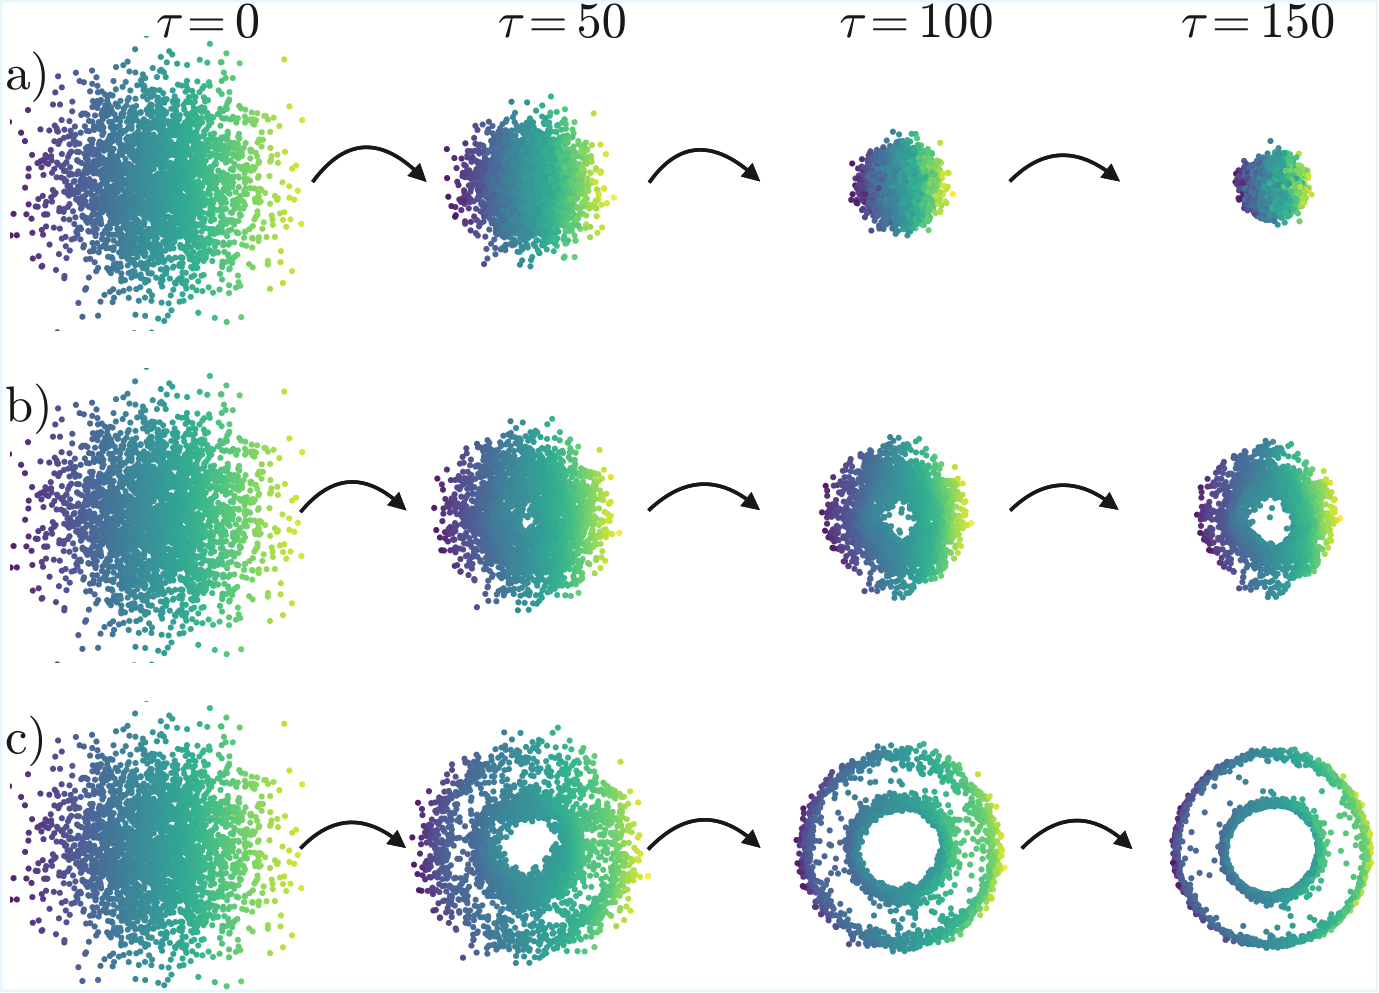
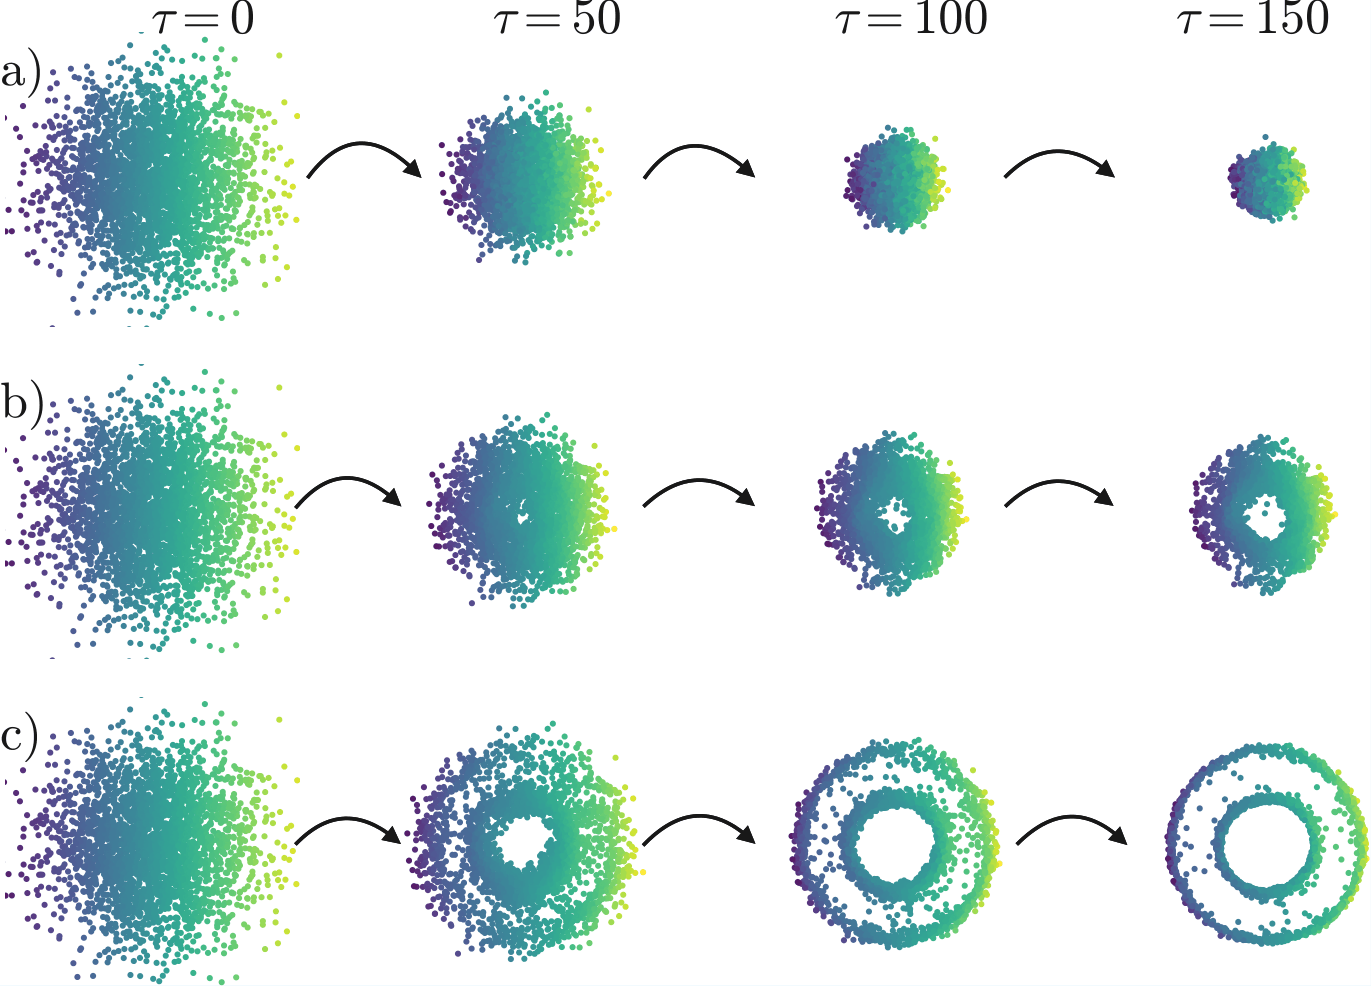
PFD webpage

diff --git a/projects/pfd/index.html b/projects/pfd/index.html
@@ -332,11 +332,11 @@
 
       <div class="has-text-centered" style="margin: 1.5rem 0;">
         <img src="./static/images/fig_particles.png"
-             style="width:100%; border-radius:6px;"
+             style="width:69%; border-radius:6px;"
              alt="2D particle evolution: SDS vs SDI vs PFD on concentric circles" />
         <p style="font-size:13px; color:#555; margin-top:0.6rem;">
           <strong>Figure 2.</strong> Particle evolution on a concentric circles target distribution
-          (columns: optimization steps τ = 0, 50, 100, 150).
+          (columns: optimization steps \( \tau \) = 0, 50, 100, 150).
           (a) <strong>SDS</strong> collapses to a single mode.
           (b) <strong>SDI</strong> partially recovers the support but misses fine structure.
           (c) <strong>PFD (Ours)</strong> faithfully reconstructs the full multi-modal distribution.